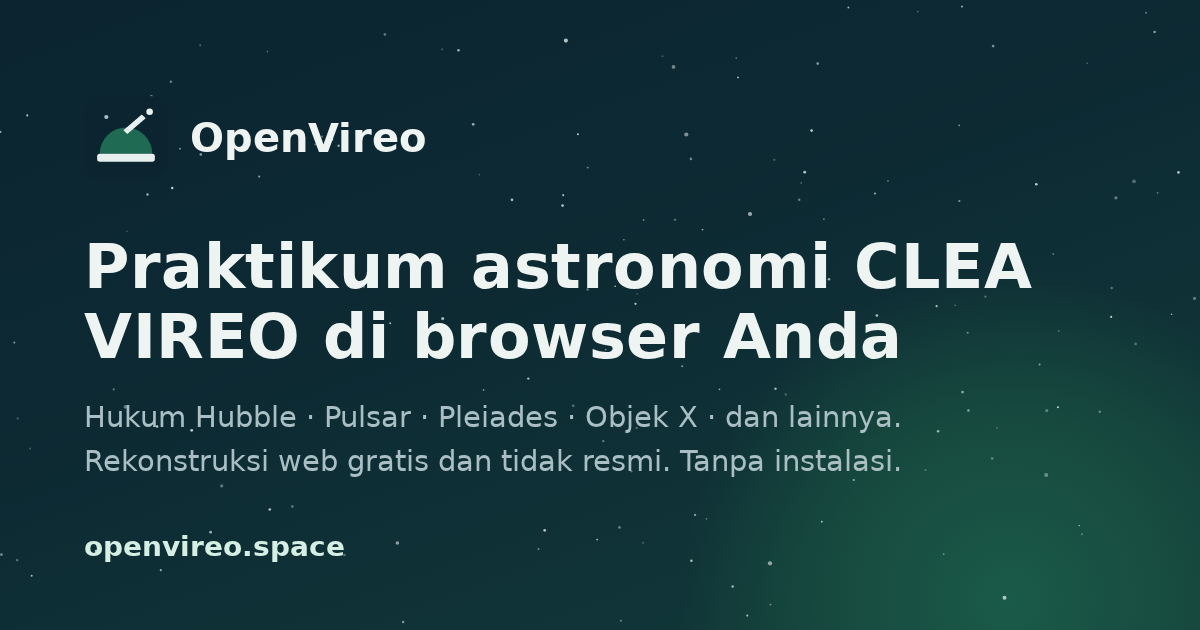
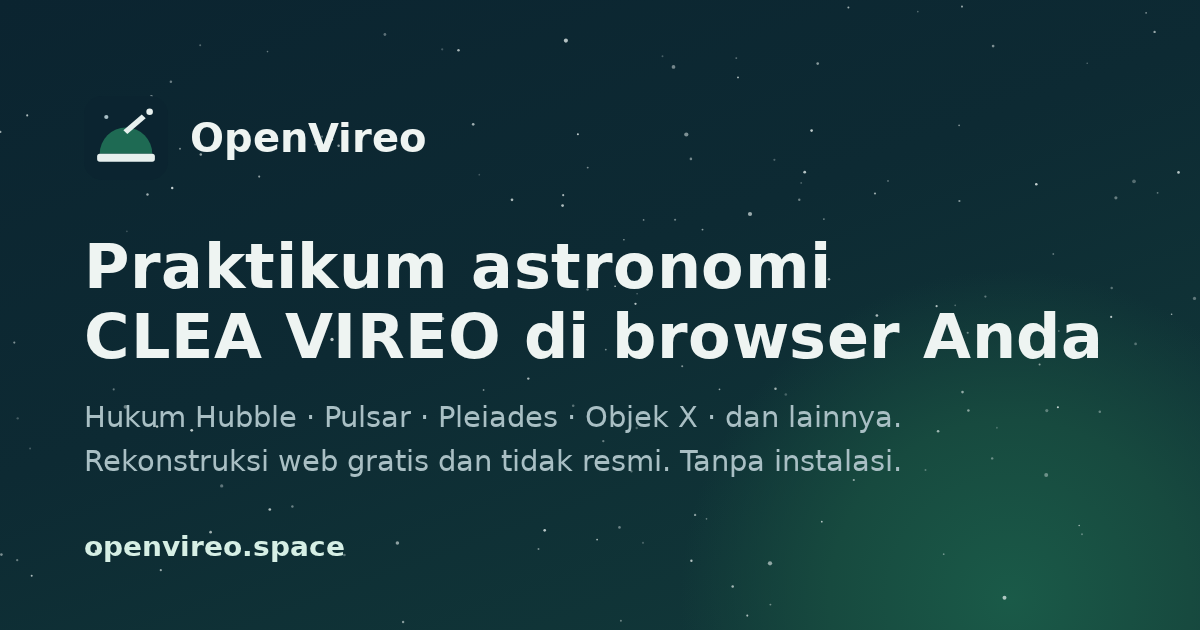
Review ID-REL+SEO: docs/I18N.md release section and opening paragraph, the Russian keyboard walk steps over Bahasa Indonesia, SEO wording (the CLEA credit, «seberapa cepat alam semesta mengembang», «daftar praktikum»), og-image-id keeps «CLEA VIREO» together

Changed region(s): [[0.0617, 0.3619, 0.925, 0.573]]

diff --git a/src/seo/labs.id.ts b/src/seo/labs.id.ts
@@ -12,8 +12,8 @@ export const LAB_TEXT_ID:Readonly<Record<LabSlug,LabText>>=Object.freeze({
   title:'Praktikum hukum Hubble online (CLEA VIREO) · OpenVireo',
   description:'Ukur pergeseran merah galaksi dengan teleskop dan spektrometer virtual, lalu cocokkan sendiri hukum Hubble. Rekonstruksi web gratis praktikum CLEA VIREO.',
   heading:'Hukum Hubble: hubungan antara pergeseran merah dan jarak',
-  intro:'Arahkan teleskop virtual ke galaksi dari latihan Hubble asli VIREO, ambil spektrumnya, dan ukur seberapa jauh garis spektrumnya bergeser. Dari hasil pengukuran Anda sendiri, Anda membuat diagram Hubble dan memperkirakan laju pengembangan alam semesta.',
-  steps:['Arahkan teleskop ke setiap galaksi dari ketiga belas galaksi dalam daftar latihan asli, lalu ambil spektrumnya.','Sejajarkan garis K dan H kalsium serta pita G di penganalisis spektrum untuk mengukur setiap pergeseran merah.','Ubah setiap pergeseran merah menjadi kecepatan menjauh dan padukan dengan jarak galaksi yang diperoleh dari magnitudonya.','Buat grafik kecepatan terhadap jarak, cocokkan sendiri hubungan Hubble, lalu simpan investigasi Anda.'],
+  intro:'Arahkan teleskop virtual ke galaksi dari latihan Hubble asli VIREO, ambil spektrumnya, dan ukur seberapa jauh garis spektrumnya bergeser. Dari hasil pengukuran Anda sendiri, Anda membuat diagram Hubble dan memperkirakan seberapa cepat alam semesta mengembang.',
+  steps:['Arahkan teleskop ke masing-masing dari ketiga belas galaksi dalam daftar praktikum asli, lalu ambil spektrumnya.','Sejajarkan garis K dan H kalsium serta pita G di penganalisis spektrum untuk mengukur setiap pergeseran merah.','Ubah setiap pergeseran merah menjadi kecepatan menjauh dan padukan dengan jarak galaksi yang diperoleh dari magnitudonya.','Buat grafik kecepatan terhadap jarak, cocokkan sendiri hubungan Hubble, lalu simpan investigasi Anda.'],
   learn:['Bagaimana spektrum mengungkap gerak sebuah galaksi.','Apa arti konstanta Hubble dan bagaimana cara mengukurnya.','Mengapa astronom memakai lilin standar untuk memperkirakan jarak.']},
  'large-scale-structure':{name:'Struktur skala besar',
   title:'Praktikum struktur skala besar (CLEA VIREO) · OpenVireo',
@@ -26,14 +26,14 @@ export const LAB_TEXT_ID:Readonly<Record<LabSlug,LabText>>=Object.freeze({
   title:'Praktikum klasifikasi spektrum bintang (CLEA VIREO) · OpenVireo',
   description:'Klasifikasikan bintang: bandingkan spektrumnya dengan bintang standar, tandai garis, dan ukur lebar ekuivalen. Rekonstruksi web gratis praktikum CLEA VIREO.',
   heading:'Klasifikasi spektrum bintang',
-  intro:'Muat salah satu dari 25 spektrum latihan asli dan bandingkan dengan atlas bintang standar. Anda menentukan kelas spektrumnya dari garis yang Anda lihat; tidak ada penilaian dan tidak ada jawaban yang dibocorkan.',
+  intro:'Muat salah satu dari 25 spektrum latihan asli dan bandingkan dengan atlas bintang standar. Anda menentukan kelas spektrumnya dari garis yang Anda lihat; tidak ada penilaian dan tidak ada jawaban yang diberikan begitu saja.',
   steps:['Muat spektrum latihan dan atlas spektrum standar.','Bandingkan dengan spektrum standar di dekatnya, berdampingan atau sebagai selisih.','Tandai garis spektrum dari tabel garis dan ukur lebar ekuivalen.','Catat kelas spektrum dan alasan Anda sendiri, lalu simpan investigasi Anda.'],
   learn:['Deret spektrum OBAFGKM dan apa yang menentukannya.','Garis serapan mana yang menandai bintang panas dan bintang dingin.','Cara membandingkan spektrum dengan spektrum standar secara objektif.']},
  pleiades:{name:'Fotometri Pleiades',
   title:'Praktikum fotometri Pleiades (CLEA VIREO) · OpenVireo',
   description:'Ukur kecerahan B dan V bintang Pleiades dengan fotometer virtual, lalu perkirakan jarak gugusnya. Rekonstruksi web gratis dari sebuah praktikum CLEA VIREO.',
   heading:'Fotometri fotoelektrik Pleiades',
-  intro:'Arahkan teleskop ke 24 bintang Pleiades dalam daftar latihan asli dan ukur masing-masing melalui filter B dan V dengan fotometer virtual. Dari hasil pembacaan Anda sendiri, Anda memetakan deret gugus dan memperkirakan jaraknya.',
+  intro:'Arahkan teleskop ke 24 bintang Pleiades dalam daftar praktikum asli dan ukur masing-masing melalui filter B dan V dengan fotometer virtual. Dari hasil pembacaan Anda sendiri, Anda memetakan deret gugus dan memperkirakan jaraknya.',
   steps:['Muat daftar Pleiades dan arahkan teleskop ke sebuah bintang.','Ukur langit dan bintang melalui filter B dan V.','Catat hasil pembacaan Anda dan hitung warna B−V setiap bintang.','Cocokkan deret utama secara manual untuk memperkirakan jarak, lalu simpan investigasi Anda.'],
   learn:['Bagaimana fotometri mengukur kecerahan dan warna bintang.','Apa yang ditunjukkan diagram warna–magnitudo.','Bagaimana pencocokan deret utama memberikan jarak sebuah gugus.']},
  'cluster-hr':{name:'Diagram HR gugus bintang',

diff --git a/tests/i18n/language-selector.spec.ts b/tests/i18n/language-selector.spec.ts
@@ -110,7 +110,7 @@ test('Front PT-REL: pt, pt-BR, pt-PT and PT-br browsers open Português (Brasil)
 
 // Front FR0 (plan front-i18n-fr.md §2) registered French behind its `?lang=fr` preview; Front FR-REL released it. Every fr and fr-*
 // browser (any case) opens it; frr, br and a browser whose first language is another stay as they were; a stored choice and a
-// `?lang=` link decide as for the other languages, and every load offers English, Español, Português (Brasil) and Français.
+// `?lang=` link decide as for the other languages, and every load offers English, Español, Português (Brasil) and Français (and, since ID-REL, Bahasa Indonesia).
 test('Front FR-REL: fr, fr-FR, fr-CA, fr-BE and FR-ch browsers open Français; the first preference decides; a stored fr beats the browser',async({browser})=>{
  test.setTimeout(180_000);
  const F=FRENCH_TEXT,P=PORTUGUESE_TEXT;
@@ -320,7 +320,7 @@ test('Front RU0: on the ?lang=ru preview the keyboard steps across all six optio
  // Escape on the select drops a pending step; leaving the select with a pending step asks for it.
  await select.focus();await page.keyboard.press('Home');await expect(select).toHaveValue('en');
  await page.keyboard.press('Escape');await expect(select).toHaveValue('ru');await expect(dialog).toHaveCount(0);
- await select.focus();await page.keyboard.press('ArrowUp');await page.keyboard.press('ArrowUp');await page.keyboard.press('ArrowUp');await expect(select).toHaveValue('es-419');await expect(dialog).toHaveCount(0);
+ await select.focus();await page.keyboard.press('ArrowUp');await page.keyboard.press('ArrowUp');await page.keyboard.press('ArrowUp');await page.keyboard.press('ArrowUp');await expect(select).toHaveValue('es-419');await expect(dialog).toHaveCount(0);
  await page.keyboard.press('Tab');
  await expect(dialog).toBeVisible();await expect(dialog).toContainText(R.maps.languageChoice.reload('Español'));
  await page.keyboard.press('Escape');await expect(dialog).toHaveCount(0);await expect(select).toHaveValue('ru');

diff --git a/src/seo/languages.ts b/src/seo/languages.ts
@@ -209,14 +209,14 @@ const FR:SeoLanguage={
 const ID:SeoLanguage={
  tag:'id',hreflang:['id'],ogLocale:'id_ID',prefix:SEO_PATH_PREFIX.id,app:'/?lang=id',
  ogImage:'/og-image-id.png',ogImageAlt:'OpenVireo: praktikum astronomi CLEA VIREO di browser Anda, dalam bahasa Indonesia',
- ogImageText:{title:'Praktikum astronomi CLEA VIREO di browser Anda',lines:['Hukum Hubble · Pulsar · Pleiades · Objek X · dan lainnya.','Rekonstruksi web gratis dan tidak resmi. Tanpa instalasi.']},
+ ogImageText:{title:'Praktikum astronomi CLEA\u00a0VIREO di browser Anda',lines:['Hukum Hubble · Pulsar · Pleiades · Objek X · dan lainnya.','Rekonstruksi web gratis dan tidak resmi. Tanpa instalasi.']},
  labs:merge(LAB_TEXT_ID),
  ui:{languageName:'Bahasa Indonesia',siteNav:'Situs',breadcrumb:'Jejak navigasi',labsCrumb:'Praktikum',allLabs:'Semua praktikum',openObservatory:'Buka observatorium',
   labEyebrow:'Praktikum berdasarkan latihan CLEA VIREO',openLab:'Buka praktikum',
   openLabNote:()=>'Membuka observatorium dalam bahasa Indonesia dengan panduan praktikum ini. Gratis, tanpa pendaftaran.',
   whatYouDo:'Yang Anda lakukan',whatYouLearn:'Yang Anda pelajari',otherLabs:'Praktikum lainnya',
   about:'OpenVireo adalah rekonstruksi web gratis dan nonkomersial dari VIREO, observatorium pendidikan virtual (Virtual Educational '+
-   'Observatory) milik Project CLEA di Gettysburg College, yang didukung oleh NSF (National Science Foundation) dan Gettysburg College. '+
+   'Observatory) milik Project CLEA di Gettysburg College. Project CLEA didukung oleh NSF (National Science Foundation) dan Gettysburg College. '+
    'OpenVireo didasarkan pada perilaku program asli yang berhasil dipulihkan dan memakai file data asli dengan mencantumkan sumbernya. '+
    'OpenVireo bukan program asli dan tidak berafiliasi dengan Project CLEA. Aplikasi ini menandai adaptasi webnya yang sudah diketahui. '+
    'Teks berbahasa Indonesia ini adalah adaptasi web OpenVireo, bukan teks CLEA.',

diff --git a/tests/release/pages-smoke.pages.ts b/tests/release/pages-smoke.pages.ts
@@ -211,7 +211,7 @@ for(const [hash,name] of ROUTES)test(`Front ${R.front}: ${name} (${hash}) in ${R
  expect(p.language[0]).toBe('core');expect(p.language.slice(1).sort()).toEqual(modules);expect(new Set(p.tags)).toEqual(new Set([R.tag]));
  expect(await language(page)).toEqual({sets:area?2:1,earlyReads:0,changes:[]});
 });
-test(R.tag==='pt-BR'?'Front PT-REL: a pt-BR browser opens Portuguese without ?lang=, with the selector offering three languages, under the release CSP':`Front ${R.front}: a ${R.locale} browser opens ${R.name} without ?lang=, with the selector offering four languages, under the release CSP`,async({page,baseURL})=>{
+test(R.tag==='pt-BR'?'Front PT-REL: a pt-BR browser opens Portuguese without ?lang=, with the selector offering three languages, under the release CSP':`Front ${R.front}: a ${R.locale} browser opens ${R.name} without ?lang=, with the selector offering ${OPTIONS.length} languages, under the release CSP`,async({page,baseURL})=>{
  const p=await watch(page,baseURL!);
  await page.goto('/#observatory');await expect(page.getByRole('heading',{name:R.heading})).toBeVisible();
  expect(await page.evaluate(()=>document.documentElement.lang)).toBe(R.tag);

diff --git a/src/i18n/partialLanguage.test.ts b/src/i18n/partialLanguage.test.ts
@@ -31,7 +31,7 @@ describe('Front SC8: a partial language before its release (test fixture qaa-XA)
   expect(decide({stored:'qaa-XA'})).toBe('en');expect(decide({stored:'qaa-XA',languages:['es-MX']})).toBe('es-419');
   // Without its registry entry the tag is no language at all.
   expect(decideLocale({param:'qaa-XA',stored:null,languages:['en-US'],dev:false})).toBe('en');
-  // The released languages (Spanish, Brazilian Portuguese since PT-REL and French since FR-REL) are offered; the fixture only on its own preview.
+  // The released languages (Spanish, Brazilian Portuguese since PT-REL, French since FR-REL and Indonesian since ID-REL) are offered; the fixture only on its own preview.
   expect(selectorLanguages('en',REGISTRY).map(l=>l.tag)).toEqual(['en','es-419','pt-BR','fr','id']);
   expect(selectorLanguages('es-419',REGISTRY).map(l=>l.tag)).toEqual(['en','es-419','pt-BR','fr','id']);
   expect(selectorLanguages('qaa-XA',REGISTRY).map(l=>l.tag)).toEqual(['en','es-419','pt-BR','fr','id','qaa-XA']);

diff --git a/docs/I18N.md b/docs/I18N.md
@@ -1,12 +1,13 @@
 # Languages (I18N)
 
 OpenVireo is in English, since Front ES-REL (2026-11-09) in Spanish (es-419), since Front PT-REL (2026-11-10) in Brazilian
-Portuguese (pt-BR) and since Front FR-REL+SEO (2026-11-11) in French (fr): a browser whose first language is any `es-*` opens
-Spanish, any `pt` or `pt-*` Brazilian Portuguese, any `fr` or `fr-*` French, every other browser English, and the English /
-Español / Português (Brasil) / Français selector changes it (user decisions of 2026-11-09 and 2026-11-11, AGENTS.md; plans
-`analysis/front-plans/front-i18n-es.md`, `front-i18n-pt-br.md` and `front-i18n-fr.md` in the research root; the Spanish release is
-the ES-REL section, the Portuguese release "Brazilian Portuguese: the release (PT-REL)" and the French release the last section of
-this file).
+Portuguese (pt-BR), since Front FR-REL+SEO (2026-11-11) in French (fr) and since Front ID-REL+SEO (2026-11-20) in Indonesian (id):
+a browser whose first language is any `es-*` opens Spanish, any `pt` or `pt-*` Brazilian Portuguese, any `fr` or `fr-*` French,
+any `id`, `id-*`, `in` or `in-*` Indonesian, every other browser English, and the English / Español / Português (Brasil) / Français
+/ Bahasa Indonesia selector changes it (user decisions of 2026-11-09, 2026-11-11 and 2026-11-19, AGENTS.md; plans
+`analysis/front-plans/front-i18n-es.md`, `front-i18n-pt-br.md`, `front-i18n-fr.md` and `front-i18n-id.md` in the research root; the
+Spanish release is the ES-REL section, the Portuguese release "Brazilian Portuguese: the release (PT-REL)", the French release
+"French: release and search pages (FR-REL+SEO)" and the Indonesian release "Indonesian: release and search pages (ID-REL+SEO)").
 This file describes the infrastructure of Front ES0, the shell slice of Front ES1, the observatory of Front ES2, the exercise
 fronts ES3–ES9, the help files (ES-HELP), the chunk split (ES-SPLIT) and the release (ES-REL), in the order they were built.
 The status lines of each front describe the tree when it merged. Until ES-REL Spanish was hidden (decision 5): only a
@@ -7886,3 +7887,67 @@ Japanese stays behind `?lang=ja`; files the site writes stay English, and E08's 
   colon with no space; `e06.spec.ts`'s exists box quotes «「キャンセル」»; the E06 and E08 export families gain `ja`; the real-Japanese
   CJK walk runs E06 and E08. **The E06 and E08 walk collectors now read every script** (`\p{L}\p{M}*\p{L}`, as HI2 did for E01–E05):
   with `[A-Za-z]{2}` every all-Japanese text was invisible to their checks; the Latin languages collect the same texts as before.
+
+## Indonesian: release and search pages (ID-REL+SEO)
+
+The plan's ID-REL+SEO item (`analysis/front-plans/front-i18n-id.md` §6.2, §2, §4 and the user's Indonesian decisions of 2026-11-19)
+after ID0–ID6 and ID-HELP merged (main 06b264b8): the catalog (3,606 keys), all 33 maps, every VIREO original and the 38 help
+modules complete (`node scripts/i18n-coverage.mjs --lang id`: 3606/3606 keys, 33/33 maps, 742 originals, 0 pending). User decision 5 of
+2026-11-09 (AGENTS.md): Indonesian turns on once all of its sub-fronts are in. FR-REL+SEO is the model; the registry made the
+release one field and the SEO table one row. AGENTS.md records the release in one dated line.
+
+**Detection and the selector.** `src/i18n/languages.json`: id has `"released":true`. One load decides once, unchanged: `?lang=en`,
+`?lang=es-419`, `?lang=pt-BR`, `?lang=fr` or `?lang=id` exactly (that load only, not stored), then the stored choice, then the
+first browser language: `id`, `id-ID`, any `id-*` in any case (`ID-id`), and the withdrawn ISO 639 code `in`, `in-ID` open
+Indonesian (plan §2); Malay (`ms`, `ms-MY`, `ms-ID`, `zsm`), Javanese (`jv`), Sundanese (`su`), `en-ID` and a browser whose first
+language is another (`['en-US','id-ID']`, `['es-MX','id-ID']`, `['fr-FR','id-ID']`) stay as they were. `?lang=ID`, `?lang=id-ID`,
+`?lang=in` are no tag. The selector lists English, Español, Português (Brasil), Français and Bahasa Indonesia on every load, each in
+its own `lang`; Hindi, Japanese, Simplified Chinese and Russian previews list those five and their own. A change from Indonesian is
+stored. `<html lang="id">`, the title and the failure notices are ID0's.
+
+**Strict catalog and maps.** As for the earlier releases: `src/i18n/id/id.test.ts` checks the registry line (`released:true`,
+`thousands`, `help`), `createI18n(id,'id')` without fallback, every en.json key, and every map of `MAP_IDS` against its English shape
+without `partial`; `check-i18n-dist.mjs` requires marker text in every id module (the `pulsar` and `pulsar+radio` modules by ID0's
+ASCII fallback) and no empty area. `infrastructure.test.ts` adds Indonesian to the formatter check: 14 values × 10 option sets print
+English's with only the digit-group comma swapped for U+202F («24 000», «31 147», «1 234.5»), `fixed`/`scientific` unchanged, the
+export SHA-256 unchanged.
+
+**Tests.** The Indonesian specs open Indonesian by the browser language alone, as FR-REL did for French.
+- `tests/i18n/languageText.ts`: `INDONESIAN_TEXT` has every area done and no query; `contextLocale` gives it `id-ID` (ID0's
+  `INDONESIAN_LOCALE`). Every language-parameterised spec now runs Indonesian in an id-ID browser without `?lang=`.
+- `areas.spec.ts`: Indonesian leaves the partial-language list (Hindi and Simplified Chinese keep it) and joins the released-language
+  loop («in an Indonesian browser › Indonesian (released) fetches its core…», no empty area).
+- `language-selector.spec.ts`: five options with their `lang` on every load (`RELEASED_OPTIONS`); ID0's two preview tests became
+  ID-REL's detection test (id, id-ID, ID-id, in, in-ID, `['id-ID','es-MX']` → id; `['en-US','id-ID']` → English; `['es-MX','id-ID']` →
+  Spanish; `['fr-FR','id-ID']` → French; ms-MY and jv-ID → English; a stored id beats an fr-FR browser and a stored English an id-ID
+  one, `?lang=` beats both; a change from Indonesian to French and back is stored with a clean address) and a keyboard test in an
+  id-ID browser; the French, Portuguese, Russian and Japanese keyboard walks step over Bahasa Indonesia, and every preview's option
+  list includes it.
+- `narrow.spec.ts` and `browsers.spec.ts` loop the released languages, so Indonesian joins with no change.
+- `tests/scripts/routes.scripts.ts`: the scripts.css computed-style walk gains id (320 and 1440 px).
+- `tests/release/pages-smoke.pages.ts`: the routes and home loop gains Indonesian (id-ID, its own heading and title, five options);
+  id-ID and in-ID browsers open Indonesian and read «31 147»; the 404 page has five languages; the Indonesian SEO pages (below).
+- Vitest: `locale.test.ts` (ID0's test became ID-REL's), `languages.test.ts` (four released; five selector options; the gate rows of
+  the planned-languages table move to Hindi `hi`, as FR-REL moved them to `id`), `partialLanguage.test.ts`, `tests/fixtures/i18n/
+  registry.ts` (id as released).
+
+**The dist check and the 404 page.** The shared 404 page (Front LAUNCH-3, `notFoundPage` in `src/seo/pages.ts`) holds one `<section
+lang="…">` block per language with static pages. Indonesian's block links «Buka observatorium», which is also the catalog's
+`pleiadesLab.goObservatory`, an Indonesian core marker (16+ characters, unlike French's «Ouvrir l’observatoire», whose catalog says
+«Aller à l’observatoire»), so `scripts/check-i18n-dist.mjs` reported `dist/404.html: 1 id core text(s) outside the core chunk`.
+The page carries each language's text by design, as `dist/<pagePath>/` does: the check now removes the language's own `<section
+lang="<tag>"…>…</section>` block of `dist/404.html` before searching it, so Indonesian text anywhere else on the page (the English
+part or another language's block) still fails. A fixture test in `src/i18n/distCheck.test.ts` shows both cases.
+
+**Release text.** The 404 page (`dist/404.html`, generated from the SEO table) has five languages: «Halaman tidak ditemukan … Alamat ini bukan
+bagian dari OpenVireo.» under `lang="id"`, linking `/?lang=id`, and «Tidak ditemukan» in the title. README and THIRD_PARTY_NOTICES.txt
+carry "Indonesian translation: an OpenVireo web adaptation; CLEA's files and texts are unchanged." with the same uncertainty about the
+recorded CLEA License.rtf terms. `src/i18n/id/index.ts`'s comment says it is released and complete.
+
+**Search pages.** Described in `docs/SEO.md` ("Front ID-SEO"): an `id` row in `src/seo/languages.ts` (`hreflang:['id']`,
+`ogLocale:'id_ID'`, prefix `/id`, `app:'/?lang=id'`), `src/seo/labs.id.ts`, `SEO_PATH_PREFIX.id='/id'`, the `/id/*` header rule and
+`public/og-image-id.png`. Written by an Opus writer from OpenVireo's English pages and checked by the SC4 framework with profile `id`
+and glossary field `id` (no explicit case needed): «Anda», base-form imperatives («Ukur», «Arahkan», «Catat»), base-form links
+(«Buka praktikum», «Buka observatorium»), sentence case, «praktikum» for a lab, the app's own lab names, the glossary's terms,
+«Cara kerja» with the line on numbers («24 000», U+202F), and the footer «Teks berbahasa Indonesia ini adalah adaptasi web
+OpenVireo, bukan teks CLEA.» with the credit to Project CLEA, Gettysburg College and the NSF.

diff --git a/docs/SEO.md b/docs/SEO.md
@@ -287,8 +287,8 @@ PT-SEO's data-driven design as FR-SEO did. Static site only; no new external ser
   alternates. English, Spanish, Portuguese and French pages gain `og:locale:alternate` `id_ID` and a visible «Bahasa Indonesia» link
   (`hreflang`/`lang` `id`); `index.html`'s body is untouched (only its alternates, built from the table, gain the Indonesian link).
 - **App**: the observatory footer's labs link goes to `/id/labs/` when the app is in Indonesian (the prefix table gains `id:'/id'`).
-- **Preview image** `public/og-image-id.png` (1200×630, 280,754 bytes, SHA-256 `9828fffc…58ed332`): the design of the others with
-  Indonesian text («Praktikum astronomi CLEA VIREO di browser Anda»), rendered by `node scripts/render-og-image.mjs id` with the
+- **Preview image** `public/og-image-id.png` (1200×630, 279,971 bytes, SHA-256 `556893c3…94271dc3`): the design of the others with
+  Indonesian text («Praktikum astronomi CLEA VIREO di browser Anda», with a no-break space keeping «CLEA VIREO» on one line), rendered by `node scripts/render-og-image.mjs id` with the
   project's test fontconfig; an original drawing, no CLEA image. Two renders gave the same bytes.
 - **Headers**: `/id/*` is `no-cache`, like `/labs/*`, `/es/*`, `/pt-br/*` and `/fr/*` (`public/_headers`, `src/deployHeaders.test.ts`).
 
